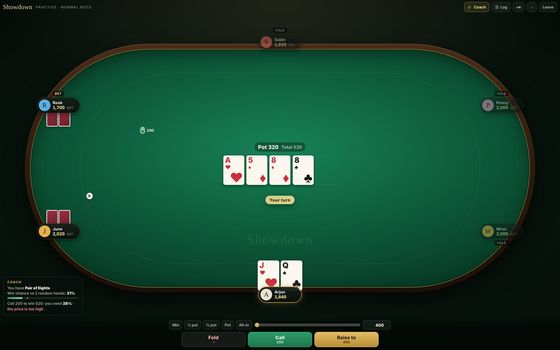
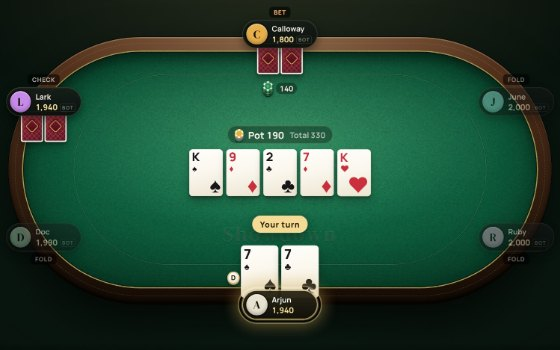
Showdown: new card picture and phone thumbnail, README notes on the look
The Back Room card's picture and the phone page's thumbnail are retaken from the restyled table, the card's
alt text describes the new picture, and the README section says how the look and the sideways-phone layout
are built.

Claude-Session: https://claude.ai/code/session_01DfCR7RPoK1UNAvb7iRuPWn

diff --git a/e63334287a3deaa3/index.html b/e63334287a3deaa3/index.html
@@ -520,7 +520,7 @@
       </article>
       <article class="project gc">
         <a class="shot" href="/e63334287a3deaa3/showdown/" aria-label="Open Showdown" tabindex="-1">
-          <img src="/e63334287a3deaa3/showdown/preview.jpg" alt="Showdown in play: a green stadium-shaped poker table with five bots seated around the rail, the turn showing ace, five, eight, eight, a bet of 200 in front of one player, your jack and queen at the bottom, and a coach panel giving your win chance against the pot odds." width="1920" height="1200" loading="lazy" style="object-position:50% 50%">
+          <img src="/e63334287a3deaa3/showdown/preview.jpg" alt="Showdown in play: a green stadium-shaped card table with a leather rail and five bots seated around it, the river showing king, nine, two, seven, king, a bet of 140 in front of one player, your pair of sevens at the bottom, and a coach panel giving your win chance against the pot odds." width="1920" height="1200" loading="lazy" style="object-position:50% 50%">
           <span class="gc-genre">Poker</span>
         </a>
         <div class="body">

diff --git a/README.md b/README.md
@@ -17,7 +17,7 @@ Personal site hosted with GitHub Pages at **https://ascoding11.github.io**, the 
 - `e63334287a3deaa3/trivium/`: Trivium (Back Room), a trivia game: a Daily ten, Quick play by category, Survival, a 60-second Blitz, and live contests (Firebase, same project and Firestore rules as Hype Cycle Exchange and Boxed; contests are stored in `games` with `kind: "trivia"`; the host's screen grades answers and writes scores, players only write their own answers; invite links go through the home page as `#tv-<code>`). The question bank is in `e63334287a3deaa3/trivium/bank/`, one file per category; each row is `[difficulty 1–3, question, right answer, three wrong answers, fact]`. Questions get a stable ID from a hash of their text, so editing a question's wording makes it a new question. To add a category, add a file and a `<script>` tag for it in its `index.html` (and a color in `CAT_COLOR`). Keep every question and fact in your own words, and avoid facts that go out of date (current office-holders, records likely to be broken). **Turkey Week** (`../events.js`, November 15 to 26, 2026): `bank/thanksgiving.js` adds a seasonal Thanksgiving category (33 questions, id `tgv`) only while the event is running. It is kept out of the usual daily draw (`DAILY_IDS`), so no other day's Daily ten changes; on Thanksgiving Day (`TG_DAY`, 2026-11-26) all ten daily questions come from it. There is no off switch here, since it is a category you choose, not a look.
 - `e63334287a3deaa3/boostball/`: Boostball (Back Room), rocket-car soccer like Rocket League, 1v1 to 3v3 with bots (Three.js, Firebase Realtime Database rooms under `rooms/bb-…`, public lobbies `bb-pub-1…6`, same project and rules as Rumble Karts; invite links `#bb-<code>`). Car and ball physics follow Rocket League's numbers (from RocketSim) scaled by `UU`; braking and coasting are `BRAKE_ACC` / `COAST_ACC`. Cars have their own, heavier gravity, `CAR_GRAV` (1.25 × the ball's `GRAV`, which the ball keeps, so ball flight and bounces are unchanged), so they hang in the air less and come down with some weight; the jump's kick and hold are raised by `JUMP_K` (1.1), so a full jump still reaches about 95% of its old height but lands about 13% sooner, and boosting straight up still out-pulls car gravity (net 6.25 against 9.5 u/s² before; jump plus boost reaches crossbar height in 1.21 s instead of 1.14 s). Every car use of gravity goes through `CAR_GRAV`: the air, the pull along walls and ramps, the sticky-force test, and the guess at other players' cars between updates (`updateRemotes`). A car's own recoil from the ball is worked out as if it were a quarter heavier (`CAR_HEFT`; what the ball gets, so every shot, is unchanged), soft car bumps push a little less (`BUMP_SOFT`), the car that was hit is pushed harder than the one that did the hitting (`BUMP_HIT` 1.2 and `BUMP_RAM` 0.8 times the usual push, by how much of the closing speed was the other car's; a head-on bump is the plain push for both), every bump is worked out from the speeds the cars had before any bump that step (`c.bv`, set in `physStep`), so you and a bot on the same computer each get your share whichever is handled first, and a car landing on its body on the floor bounces off at `BODY_BOUNCE.floor` (.08, was .25) so it no longer skips. Landings show a drawn-only suspension squash (`SQ_*`, other players' cars too), a thud that grows with the landing speed, and for your own hard landings a small camera dip (scaled by Camera shake, off under reduced motion). Older cached pages still play with newer ones: each page runs its own car, and the gravity difference only changes the guess at a remote car between updates (55 ms apart), by centimetres. A ball resting on the roof can be carried (soft car–ball contacts have friction and a gentler extra push: `CB_*` and `PUSH*` constants; hard hits are unchanged). The match lives in `rooms/bb-<code>/round` (score, clock, last goal; `tc` is the team colour pair, which the host sets), players in `players/<uid>`, touches and pads in short-lived `events`. A goal plays a fireball in the scoring team's colour on every client (one Points cloud, fewer puffs on touch screens). Settings → Team colours picks blue/orange, green/purple, red/teal, yellow/violet or pink/cyan (each pair checked under simulated colour blindness); online everyone sees the host's pick. Settings and garage are saved only in the browser under `boostball-` keys (`teams`, `marker`, `gfx`, `name`, `body`, `accent`, …). **Look:** the three car bodies are sculpted from cross-sections in `BODY_SHAPES` (rows of `[z, half width, bottom y, top y]` for the lower body, the glass cabin and the roof), which `loft()` eases into smooth solids, with a wing, lights, grille and lathe-turned tyres added; all three still fill the one hitbox, so a new body is only a new row there (shared wheel geometry is in `SHARED_G`, which the dispose code skips). The stadium is swept around a rounded rectangle outside the arena by `ring()` in `buildArena`: two tiers of drawn crowd, LED boards with made-up sponsor names, and a roof with a strip of lights under its edge. On Pretty graphics (`glossOn()`: not on Fast, and not on touch screens) the paint is a clear-coated `MeshPhysicalMaterial`, trim, glass and the ball are `MeshStandardMaterial`s, and all reflect `stadiumEnv()`, a 128 px cube map drawn in code; the sun moves nearly overhead and casts real shadows of the cars and ball onto the pitch (one 2048 × 3072 shadow map over the whole field, only cars and the ball drawn into it; the old blob shadows fade to a faint contact shadow); and soft glows (`glowSprite`) sit on the floodlights, head and tail lights and the boost. Pretty also adds bloom and a colour grade (`bloom`, drawn by `drawScene()` after the scene): the finished frame is copied to a texture, its brightest parts are shrunk to a quarter size and blurred, and a last pass redraws the frame with that glow added, slightly more colour and contrast and darker corners, so floodlights, goal frames, boost and the goal fireball glow; the pitch switches to a per-pixel-lit material with a grass-grain normal map (`fineFloor()`), and faint beams fall from the floodlights; the scene is still drawn once straight to the screen, the HTML HUD never glows, and if the copy ever fails the bloom turns itself off for the visit. On every setting the pitch texture has mowing bands and a pool of floodlight fading to the corners, and the sky has stars (a fixed `Points` cloud). Pretty protects the frame rate by itself: `fxWatch()` (called from `drawScene()`) steps `fxTier` down when frames stay over 24 ms for 3 s after `autores.js` has already lowered the resolution to 0.7 or less, from 2 (everything) to 1 (no bloom or grade) to 0 (also no real shadows or fine grass; paint, reflections and glows stay). It never steps back up during a visit, and picking Pretty again in Settings starts from 2. `lookSync()` switches all of that when the setting changes, and `glossOn()` is part of each car's `meshKey` and the garage's key, so changing Graphics rebuilds the cars. On Fast and on phones the same bodies are drawn with the flat Lambert materials, blob shadows and no glows. Nothing about the look is sent to other players. Bots: practice offers Rookie, Pro and All-Star (`DIFF`); online, the host's browser runs Pro bots in the empty seats. Bots drive with the same controls and car as players (`botThink` only sets the car's inputs) and see the ball a reaction time late (`react`); the levels differ only in the numbers in `DIFF` (reaction, aim, steering, boost and pad use, flips, aerials, keeping). They line up behind the ball, shoot toward the post away from a defender, pick up boost pads on the way back when short, go round a ball rather than through it when on the wrong side, clear straight up the field from in front of their own net, and get themselves unstuck from corners and the back of a goal. Before a change to the bots, play old against new headlessly through `window.__bb` over a couple of hundred matches per level: single results swing a lot. Each match the bots get random names from `BOT_NAMES` (no two alike, never a human player's name in the room; the host gives a bot a new name if someone joins with its name). Online the host sends each bot's name as its position in `BOT_NAMES` (in its `bh` row), so add new names at the end and don't reorder or remove any. The game loop runs from animation frames; when they stall (the tab is hidden) a 250 ms timer keeps `step` ticking in 100 ms slices without drawing, so a hidden host's bots, ball and node keep going (browsers run that timer about once a second in a hidden tab, so others then get its updates once a second) instead of freezing until the room picks a new host. In automated browsers only (`navigator.webdriver`), `window.__bb` exposes the game for tests. Other players' cars (`updateRemotes`) are carried on from their last update along the curve they were turning on (`tw`, the turn rate worked out from successive updates), for up to 0.4 s when an update is late; the drawn car moves at its own speed and closes the gap to that estimate no faster than `CORR_V`, so a late update makes it glide rather than jump. A host running no bots sends no `bh`, and everyone then drops the bots it ran before. **Turkey Week** (`../events.js`, November 15 to 26, 2026): the ball is drawn as a pumpkin (`drawPumpkin` paints the ball texture, plus a stem on the ball mesh) and the pitch in autumn grass colours (`drawField`). `applyTurkey` redraws both textures when the menu's Turkey Week button is pressed. The ball's physics and the room data are unchanged.
 - `e63334287a3deaa3/coil/`: Coil (Back Room), a snake arena (one canvas, Firebase Realtime Database rooms under `rooms/cl-…`, public arenas `cl-pub-1…6`, same project and rules as Rumble Karts; invite links `#cl-<code>`). Rooms hold 10 people and the host (whoever has been in the room longest) runs bots to fill the arena to 12, sending them in its own node (`bh` positions, `bs` skins, names and bodies). Each browser judges only its own snakes' deaths. The game loop runs from animation frames; when they stall (the tab is hidden) a 250 ms timer steps the world in 50 ms slices so a hidden host's bots keep moving for everyone (its own snake stays put, as before; browsers run the timer about once a second in a hidden tab, so the bots then reach others once a second, smoothed by netsmooth.js). **Turkey Week** (`../events.js`, November 15 to 26, 2026): food is drawn as corn kernels and cranberries (`tkFood`, two small sprites) and every snake wears a pilgrim hat seen from above (`tkHat`). Where the food is, its value and everything sent to the room are unchanged; the Turkey Week button on the menu switches it off.
-- `e63334287a3deaa3/showdown/`: Showdown (Back Room), no-limit Texas Hold'em for up to 8 players (Firebase Realtime Database rooms under `rooms/sd-…`, same project and rules as Rumble Karts; invite links go through the home page as `#sd-<code>`). Everything travels through each player's own node: the dealer (the player with the newest dealer number, or with none yet, whoever has been in the room longest) runs the table and publishes it as JSON in `tb`, and seals each player's hole cards to that player's key in `hc` (ECDH P-256 + AES-GCM via Web Crypto), so the database never holds readable hole cards; players write only their own action (`ac`), sit-out (`sit`), rebuy (`rb`) and chat (`ch`). The dealer's browser does see every card, so it isn't cheat-proof against a dealer with developer tools. If the dealer drops, the next player takes over from the last table it saw and refunds the hand in progress. Bots (Easy, Normal, Hard) fill empty seats and run in the dealer's browser. Play chips only; nothing is stored between sessions except practice stats in the browser.
+- `e63334287a3deaa3/showdown/`: Showdown (Back Room), no-limit Texas Hold'em for up to 8 players (Firebase Realtime Database rooms under `rooms/sd-…`, same project and rules as Rumble Karts; invite links go through the home page as `#sd-<code>`). Everything travels through each player's own node: the dealer (the player with the newest dealer number, or with none yet, whoever has been in the room longest) runs the table and publishes it as JSON in `tb`, and seals each player's hole cards to that player's key in `hc` (ECDH P-256 + AES-GCM via Web Crypto), so the database never holds readable hole cards; players write only their own action (`ac`), sit-out (`sit`), rebuy (`rb`) and chat (`ch`). The dealer's browser does see every card, so it isn't cheat-proof against a dealer with developer tools. If the dealer drops, the next player takes over from the last table it saw and refunds the hand in progress. Bots (Easy, Normal, Hard) fill empty seats and run in the dealer's browser. Play chips only; nothing is stored between sessions except practice stats in the browser. The look is all page elements and CSS, with no pictures: the rail, felt, cards (`.cd`), chips (`.chip`) and seat plates are drawn with gradients and shadows, and the felt's weave is one small speckle tile made once in the script (`feltGrain`, which has its own random-number generator so it never touches the one the cards and bots use). `layout()` sizes and places everything; on a short, wide screen (a phone held sideways: wider than tall and at most 520 px high) it adds `.dock` to `#app`, which turns the action bar into a column on the right, shows the table message in `#dockmsg` above the buttons instead of in the middle of the table, and gives the table the space to the left. The moving parts are the deal, the card flip, winning cards lifting (the `translate` property, so it can run with the flip, which uses `transform`), chips sliding to and from the pot, and a slow halo on whoever's turn it is; all of them are switched off under `prefers-reduced-motion`. None of this is sent to other players.
   Other players' hole cards only ever go into `tb` (each seat's `sh`, hand name `h` and best five `c`, plus a "shows" line in the log) at the showdown: an all-in run-out deals the rest of the board with every hand still face down, and at the showdown hands are turned over in order (whoever bet or raised last on the final betting round first, else the first player after the button), and a hand that can't win or tie any pot it's in is mucked face down instead (its action `l` becomes `Muck`, the log says it mucks, and its cards are never published). Hands that end with everyone else folding are never shown.
 - `e63334287a3deaa3/chromaflage/`: Chromaflage (Back Room), paint-yourself hide and seek for up to 8 players (Three.js, Firebase Realtime Database rooms under `rooms/cf-…`, same project and rules as Rumble Karts; Quick match uses `rooms/cf-pub-1` to `cf-pub-4`; invite links go through the home page as `#cf-<code>`). Hiders paint their own bodies in a paint studio (brush, an eyedropper that reads the true colour of whatever surface you click, fill, undo, glossiness) and pose to hide (crouch under tables, lie under beds, flatten, or stick to a wall with G or the Stick button and slide up, down and along it at any height, upright or sideways, until they jump to let go); seekers tag them with a blaster that fires a shot every 0.18 s (`FIRE_GAP`) for as long as the mouse button or the touch Tag button is held, with no reload pause: a miss costs one of 10 ink (`INK_MAX`), a hit costs nothing, and ink trickles back all the time at one shot every 2.5 s (`INK_REGEN`), so a seeker can keep firing at a hider who jumps about but blind spraying soon runs the tank dry and then gets a shot every 2.5 s. Fire rate and ink live only on the seeker's computer, which also decides hits (a ray against the hiders as it draws them) and sends a tag claim (`tg`) for the host to check, so changing them needs no change to the room data. Modes: Classic and Infection. Like Showdown, everything travels through each player's own node at `rooms/cf-<code>/players/<uid>`, because the shared rules expect `n, c, x, z, h, ts` there and refuse other paths (such as `events`) for new prefixes: position and pose (`y, po, fl, p`, and `wl`: 0, or 1 to 4 for the way the wall a hider is stuck to faces, with `y` its height), body (`s` shape, `sz` size, `rf` glossiness), paint (`pv` version and `pd`, the 256 × 256 body texture as a WebP data URL, or JPEG where the browser can't make WebP; about 1 KB for a plain colour and 10–20 KB for a detailed pattern, re-sent at most every 1.2 s and only when it changed, so late joiners read it straight from the node), the last shot (`sh`), squeak (`ta`) and tag claim (`tg`). The host (newest host number `he`, else whoever has been in the room longest) publishes the round as JSON in its own `rs` and checks tag claims loosely; if it leaves, the next player carries on from the last round it saw. Anything read from another player's node is untrusted (any player can make itself host with a high `he`): `sanitizeRS` rebuilds a received round state field by field (known phases, numbers clamped, player ids checked and lists capped, settings through `cleanSet`), `remoteTarget` keeps positions inside the map and angles finite, and scores are shown as numbers, so keep new round-state fields going through `sanitizeRS` and escape anything put in `innerHTML`. A tab in the background gets no animation frames, so a 1 s timer keeps its node's `ts` fresh and, for the host, keeps the round ticking. Bodies are modelled about 1.7 units tall and drawn at `BODY` (0.64) times their size setting, so Normal is about 1.08 m. The Doll is a soft, rounded figure (a big round head on a short neck, a plump body, thick arms and legs with rounded ends, two small eyes), each part turned on a lathe (`latheGeo`, `dollParts`) with the texture spread evenly up the profile and normals taken from the profile so there are no shading seams; the Block is a slim slab. Each body shape has a 256 × 256 texture atlas where every texel knows its 3D spot on the body, so brushes paint by distance in 3D (`atlasOf`, `Paint`). Keep each part's region of the atlas (the `rect` passed to `latheGeo`) when reshaping a body, or saved and synced paint jobs land on the wrong parts; the Doll was reshaped inside the same regions, so paint saved before that lands on roughly the same places. Maps are axis-aligned boxes plus round props, built by `buildManor` (Hollyhock Manor: 48 × 38 m, a party night in a country house, with an 8 m grand hall whose staircase climbs to a gallery, ten rooms under 4.2 m ceilings), `buildMuseum` (Marlowe Museum: 58 × 50 m, a 7 m lobby, a top-lit grand gallery with free-standing walls, six galleries, a gift shop, a café and the storeroom) `buildRyokan` (Kirinoya Inn: 50 × 40 m, a Japanese inn round a glass-roofed garden courtyard, with four tatami guest rooms, a banquet hall, a tea room, a futon store, the hot-spring bath, the kitchen and a games lounge), and six everyday places: `buildSchool` (Birchwood High: 44 × 32 m, a locker-lined corridor, two classrooms, a science lab, a library, an art room, the staff room, toilets and the PE store), `buildOffice` (Larkspur & Co: 48 × 34 m, a reception, an open-plan floor of desk pods, a meeting room, the manager's office, a kitchenette, a server room, a store, a lounge and toilets), `buildMarket` (Greenleaf Market: 50 × 36 m, a 4.2 m supermarket floor of aisles, produce tables, chillers, freezer islands, a bakery, a deli and six checkouts, a café, the bakery kitchen, a stockroom with pallet racking and a forklift, the staff room, an office, toilets and a cold room), `buildHotel` (Hotel Bellamy: 48 × 36 m, a marble lobby with columns, a piano and a reception desk, a bar with a pool table, a restaurant, and off a carpeted corridor five guest rooms, each with a bathroom whose bath you can climb into, plus housekeeping and the laundry), `buildLeisure` (Riverside Leisure Centre: 50 × 38 m, a 7 m sports hall with bleachers, hoops and a climbing wall, a gym, a dance studio, the reception and café, two changing rooms with lockers and showers, first aid, the equipment store, an office and the plant room) and `buildFlats` (Maple Court: 46 × 31 m, four flats off a landing, each with a living room and kitchen, a bedroom, a children's room with bunk beds, a study, a hall and a bathroom, plus the residents' laundry and the bike and bin store; the north flats are the south ones mirrored by `flat()`). The everyday maps share painters, `everydayMats` and the `everyday` furniture (desks, office and school chairs, lockers, gondola shelving, counters, divans and bunk beds, bathroom pieces, gym kit, bleachers, trolleys, pallets). Walls, floors and ceilings come from `kit`: `wallX`/`wallZ` build a wall as two half-thick slabs, one per room, each reaching 1 cm past the centre line so the two overlap and leave no seam to slip into, each from a side spec (`w` wallpaper, `lo` and `lh` lower panelling, `h` height, `base`, `rail`, `crown`, `casing`), with door openings and their casings; `win`, `pic`, `flat` and `sconce` hang windows (an evening view), framed pictures, signs and wall lights, and `ag` places furniture with its back to a wall. Wall slabs are marked `wall`, and trims, pictures and curtains are not solid, so a hider can still stick to the wall behind them. The `Builder` helpers are `box`, `at` for turned furniture, `prop` for round things from the shared `geo()` cache (baked with the boxes into one mesh per material, so a map is about one draw call per material), `ceil` for ceilings drawn from below only so the menu's view from above looks into the rooms, `spot` for places bots hide under tables, beds and the inn's futon cupboard, and `lamp` for point lights, of which only six spread-out ones are used, three on the Fast setting; the furniture helpers are in `furn` (tables, round tables with cloths, chairs, benches, sofas, beds, a grand piano, a fireplace, plants and palms, lamps and chandeliers, washing lines, curtains you can walk into, vending machines, plinths and mannequins, which make good decoys). The bots only walk the floor: the manor's gallery and the inn's raised entrance step are for players. Each map gives `spawns`, a `seek` start and an `attract` spot for the menu's doll. Boxes marked `soft` (cloth and leaves) block the view and the seeker bot's line of sight but not the blaster's pellets. The boxes are also the colliders, the bots' navigation grid, line of sight and the surfaces the eyedropper and bots sample; they are filed in a 2 m grid (`buildGrid`, `solidsIn`, `rayMap`) so rays and collisions stay quick. Every pattern is drawn on a canvas by the `P` painters (damask and striped wallpapers, wood panelling, marble, tatami, shoji and fusuma, rugs, portraits, landscapes and modern paintings, and so on), from a fixed seed so all players get the same map. Every room must keep a ceiling. To add a map, write a `build…` function and add it to `MAPS`, then check it the way the existing ones were checked: every spawn, the seeker start and every bot `spot` free and reachable from the seeker start, a ceiling and a floor everywhere, no ray escaping the shell, and no solid furniture cut into a wall. Bodies collide as their pose's footprint circles against the boxes (`moveEnt`): each move is cut into steps shorter than the body's radius and anything it runs into pushes it back out the face it came in through (`pushOut`), so nothing can be crossed in one frame; a box whose top is within a step of the feet (`stepOf`: 0.45 m standing, half the body's height crouching or lying) is climbed only when there is room to stand on it, otherwise it is solid (a chair seat over its legs, a bed frame under its quilt); a box whose bottom is within 1 cm of the top of the head doesn't block, so a body that just fits under a table fits; low furniture is solid down to the floor unless the gap under it is at least as tall as the smallest lying body (`minGap`, the Petite Block, about 0.15 m: `Builder.finish` adds an invisible collider under anything lower); a body that finds itself inside something (after growing, say) moves to the nearest free spot that isn't across a wall (`freeSpot`, `wallBetween`), and a move never ends on the far side of a wall. The practice seeker bot "sees" by rendering a small view of you with and without you and comparing the colours (`perceive`, delta E), so better paint really does keep you hidden; it sweeps its gaze up and down so it can spot hiders high on walls, and furniture blocks its view. Practice hider bots sometimes hang on walls or tuck under furniture. Online rooms follow a daily map rotation: `dayMaps` shuffles all the maps with the day number as the seed (days start at midnight US Eastern standard time, `DAY_SHIFT`) and keeps the first three, and the map is `dayMaps(now)[floor(now / 15 min) % 3]` (`rotMap`), worked out from the shared server clock (`Net.now`). The host publishes it as `rs.map` in the lobby and when it starts a round, so a round in progress finishes on its map and the next round or the lobby moves on; the lobby shows the map now and "Next map in m:ss" with the next map's name (`rotText`), and the menu names today's three. The host of a private room can still pick a single map instead of "Daily rotation" (the `map` round setting, -1 for the rotation); Practice has a picker of every map; Quick match and invite links are unchanged. Nothing is stored online between rounds; your name, body, last paint job and settings are saved in the browser under `chroma-…`. Parties can launch it (its row in `GAMES` in `party.js`). On touch screens the page adds `touch` to `body`, and the `body.touch` rules at the end of the stylesheet place the HUD, the lobby card and the paint studio for phones held upright or sideways (keep them clear of the stick and buttons when adding HUD pieces). The lobby card and the paint studio scroll an inner box (`.lb-body`, `.st-body`) instead of the card itself, because Chrome can leave a blank patch in the 3D view under a scrolling box with a solid background. **Turkey Week** (`../events.js`, November 15 to 26, 2026): seekers wear a pilgrim hat as part of their gear; hiders never do, because a hat would give them away: one shared hat geometry and material from `events.js` (`tkHat`), one extra draw call each; the menu's Turkey Week button shows or hides them (`tkToggle`).
 - `e63334287a3deaa3/backrooms-1v1/`: Backrooms 1v1–4v4 (Back Room; the folder keeps its original `backrooms-1v1` name), a third-person build-fight shooter in Level 0 of the Backrooms (Three.js). Practice is you against the Entity, a bot that runs only in your browser. Online rooms hold up to 8 players split into Red and Blue (1v1 to 4v4, uneven teams like 4v3 are allowed and never filled with bots) in the Firebase Realtime Database under `rooms/br-…` (same project and rules as Rumble Karts; invite links go through the home page as `#br-<code>`). Quick match waits in `rooms/br-queue/players` and pairs two people into a `br-q…` room for a 1v1. Each player writes only their own node `players/<uid>`: `n`, `c`, `x`, `z`, `h` and `ts` always (the shared rules expect that shape), plus height, pitch, health, shield, weapon, a dead flag, the match `m` and round `rd` the position belongs to, the team picked in the lobby `t`, kills this match `k`, join time `j` and `mv`, the newest map version the page can build (3); about 20 times a second during a round (15 in rooms of 5 or more) while something changed, and twice a second otherwise or while nothing has. The host is the live player who has been in the room longest (the next in line takes over when they leave; a newcomer only starts judging who the host is once the room's players and round have loaded, so a slow phone joining mid-match can't take over and reset it) and is the only one who changes `round`: `{id, ends, seed, ns, ph, pt, to, rn, sr, sb, ro, dd, rw, mw, fm, rz, mv}`, where `id` is the match, `ph` the phase (`lobby`, `cd` countdown, `fight`, `over`, `end`), `pt` when the phase ends, `to` the rounds to win (3, 5 or 10, host's choice), `rn` the round, `sr`/`sb` the team scores, `ro` the roster (`uid:r;uid:b`), `dd` who is out this round, `rw`/`mw` the round and match winners, `fm` a forfeit, `rz` the host's "Randomize teams" draw (each player then moves themself) and `mv` the map version for this match (see below). The host writes with transactions guarded on `id`, `ph` and `rn`, and keeps `ends` at the time of writing because the rules cap how far ahead it can be. Shots, builds and deaths go through `events/<push>` (deleted after 5 s): the shooter's rays pass through teammates and the shot lists only the enemies it hit; the victim applies damage only from someone on the other team of the same match, and reports its own death naming the last shooter, which gives the kill credit. A round ends when one team has nobody left: dead, or silent for 10 s (a closed tab removes its node at once). A team with nobody left in the room (disconnected, or silent for 20 s) forfeits the match. A host whose own tab has just frozen waits a moment for the queued updates before judging anyone. Players who join mid-match wait in the lobby or watch until the next one, and dead players watch a living teammate (click, or tap Next on a touch screen, for the next one). **Maps:** every round is a new, randomly generated Level 0, in practice and online, on a grid of 4 m cells with walls on the cell edges and posts on the corners (`layoutV3`, map version 3). Every map is built the same way, so they all feel like the same place: a 3 × 3 room round each spawn, then rooms of 2 × 2 to 2 × 4 cells dropped at random until about two fifths of the floor is rooms, and everything else one-cell-wide (4 m) corridor. Every wall is full height: no low partitions, stray wall slabs, open halls or pillar fields (the most a room gets is one column in the middle, about one room in three). The rooms and corridor cells are joined into a tree and then given a few loops (a second or third way into some rooms, the odd extra link between corridors, most dead ends opened onto something), with three rules: never two openings side by side in one room wall, never four corridor cells open as a square (corridors stay one cell wide), and never a short piece of wall left standing on its own. Where a room opens onto something else the opening is a doorway, with a 0.8 m jamb of wall (`JAMB`) each side wherever the wall carries on past it. Any straight line of more than six cells (`V3_RUN`, 24 m) gets a wall across it near the middle, and the corridor jogs round it. The lighting is the same everywhere: about one ceiling panel in twelve is dead (the floor under it a little darker), up to three flicker on their own, and most maps have one or two banks (a room or a stretch of corridor) that flicker together and dim the walls, floor and ceiling around them; there are no tinted wallpapers, damp carpets or special rooms. Then each spawn is cleared to an open, lit 3 × 3 area, anything that can't be reached on foot is opened up, and the layout is checked for fairness (`fairV2`: both teams' spawns about as far from the middle on foot, the two halves within about a third of each other's cover, no huge detour between the teams); one that fails is redrawn (about one in four), and if sixteen in a row fail (in practice never), the closest is made point-symmetric, which is fair by construction but can leave a few open patches along the middle. Checked on 600 generated maps of every size and roster: no low partitions or free-standing wall pieces, no 3 × 3 block of cells without a wall inside it outside the spawn areas, no straight run longer than six cells, every cell reachable, the same seed always gives the same map; the longest sightline on a map is 23–53 m (v2: 42–69 m). A v3 map has more walls, so its collision boxes are joined up along each wall line (`solidsV3`: walls and jambs that touch end to end become one box, and posts in the middle of a straight run are left out), which leaves fewer boxes than a v2 map (about 210 against 310) and less work per frame for movement and shots. Size depends on the number of players and a little chance: 11–13 cells across for a 1v1 (and practice), 12–14 for 3–4 players, 14–15 for 5–6, 15–16 for 7–8. Red spawns along the west edge and Blue along the east. Online, the layout of round `rn` comes from the match's `seed` and `rn` (`roundSeed`), and its size from that and the roster size, so every player builds the same rooms without anything new being sent; a short blackout covers the change between rounds. **Older copies of the page** (still open in someone's tab after an update) only know earlier layouts, which are kept unchanged in the page and checked to build exactly the same walls, pillars and lights for the same seed: the original maze (`layoutV1`: one per match from `seed`, 12, 14 or 16 cells by room size (`ns`), Red's and Blue's spawn areas cleared), and the previous random layout (`layoutV2`, map version 2: the floor split into areas furnished in different ways (twisty corridors, small rooms, open halls with stray wall slabs, pillar fields, office cubicles behind 1.25 m grey partitions you can see and jump over, solid blocks of wall), joined by doorways or with no wall at all, each lit its own way, sometimes with a different wallpaper or a special room). Each player's node says which maps their page can build (`mv`), and the host writes into a new match the newest version every player in the room has: `mv: 3`, `mv: 2`, or no `mv`, in which case everyone, new pages included, plays the original maze for that match, so a mixed room always agrees on the walls (an older page that joins in the middle of a newer match only watches, and may see the wrong walls until the next match). A host on a v2 page writes `mv: 2` at most, and one on a v1 page never writes `mv`, so the same applies. The collision rules below hold for every layout: automated walks and jumps into walls, doorway jambs, partitions, big pillars and wall blocks, spawns for every roster shape and shots at every kind of solid, run on hundreds of generated layouts, found nothing passing through or stuck inside a wall. Builds can't be placed inside a solid block of wall. Keys and mouse buttons can be changed in the Controls panel (`keybinds.js`, saved as `keybinds:backrooms-1v1`; the Change keys button under Controls in the menu, and Controls on the pause screen): move, jump, shoot / place, aim (Shift and right click), the three guns, reload, the three build pieces (two keys each), the arrow keys that look around when the mouse can't be locked, and pause (P; Esc is fixed). Clicking to watch the next teammate stays on the left mouse button, and the mouse wheel still switches guns. On touch screens it has a move stick, drag-to-look, Fire/Place, Jump, Aim, Reload and pause buttons, with the weapon and build slots as buttons along the top; while you watch, those give way to a Next button, and the lobby, pause and results screens are plain buttons that fit a phone either way up. Each browser is trusted for its own health and hits, so it isn't cheat-proof. A test hook (`window.__br`) exists only when `navigator.webdriver` is set. **Turkey Week** (`../events.js`, November 15 to 26, 2026): every suit wears a pilgrim hat: one shared hat geometry and material from `events.js` (`tkHat`), one extra draw call each; the menu's Turkey Week button shows or hides them (`tkToggle`).
